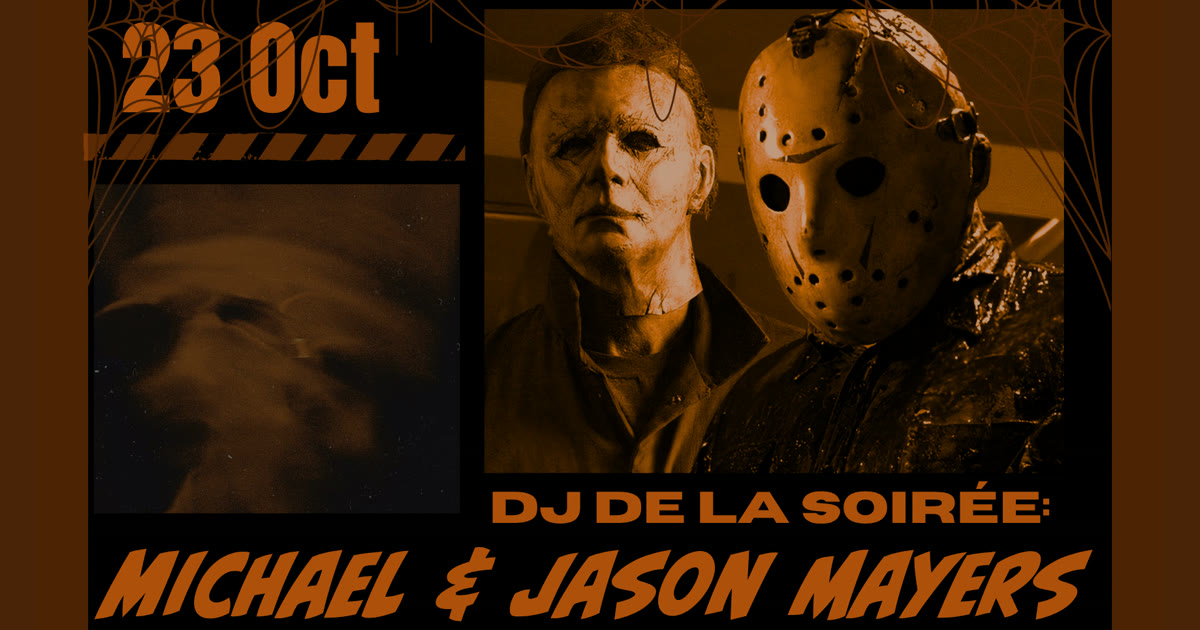
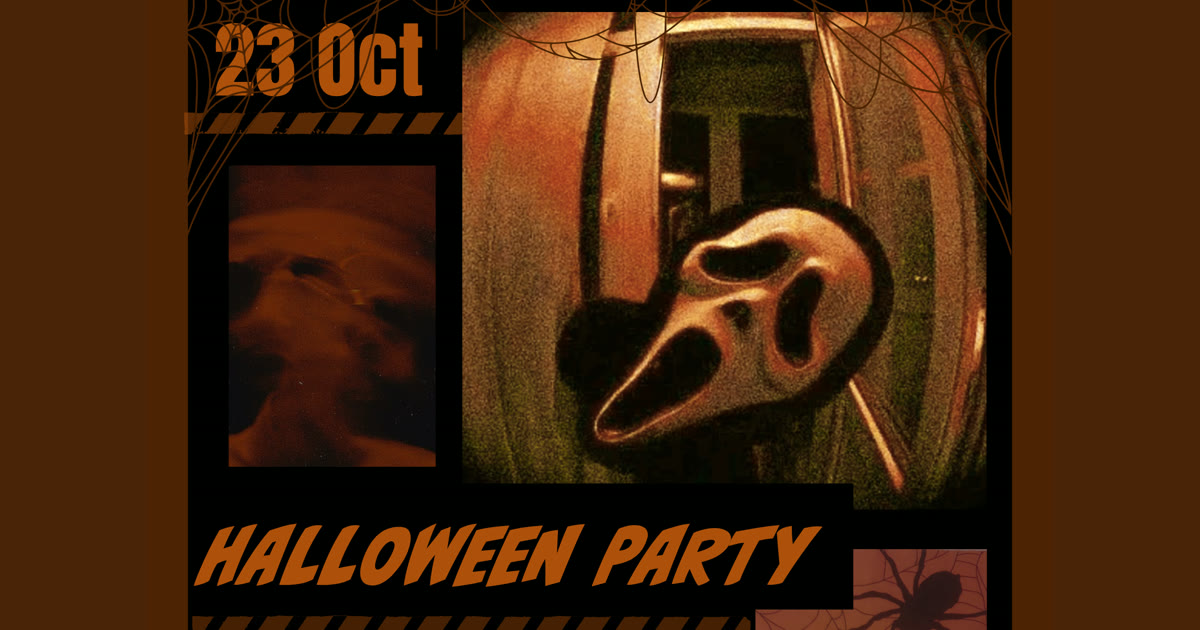
Image de partage refaite depuis le flyer de l'événement

diff --git a/README.md b/README.md
@@ -24,7 +24,7 @@ gracefully if unreachable; without the widget script the ticket area is empty.
 | `hero-mask.jpg` | hero background (mask cropped from `flyer.png`) |
 | `flyer-halloween.jpg` | web version of the event flyer (source `flyer.png`, gitignored) |
 | `dj-duo.jpg` | Jason & Michael photo, cropped from `DJ.png` |
-| `og-image.jpg` | link preview (1200×630, from `DJ.png`) |
+| `og-image.jpg` | link preview (1200×630, from `flyer.png`) |
 | `favicon.ico` · `icon-192/512.png` · `apple-touch-icon.png` | site icon, generated from `hero.jpg` (gitignored source) |
 | `club-hero.mp4` / `.jpg` | old blue hero video — currently unused (see §4) |
 | `PRODUCT.md` | product truth (audience, event facts, constraints) |
